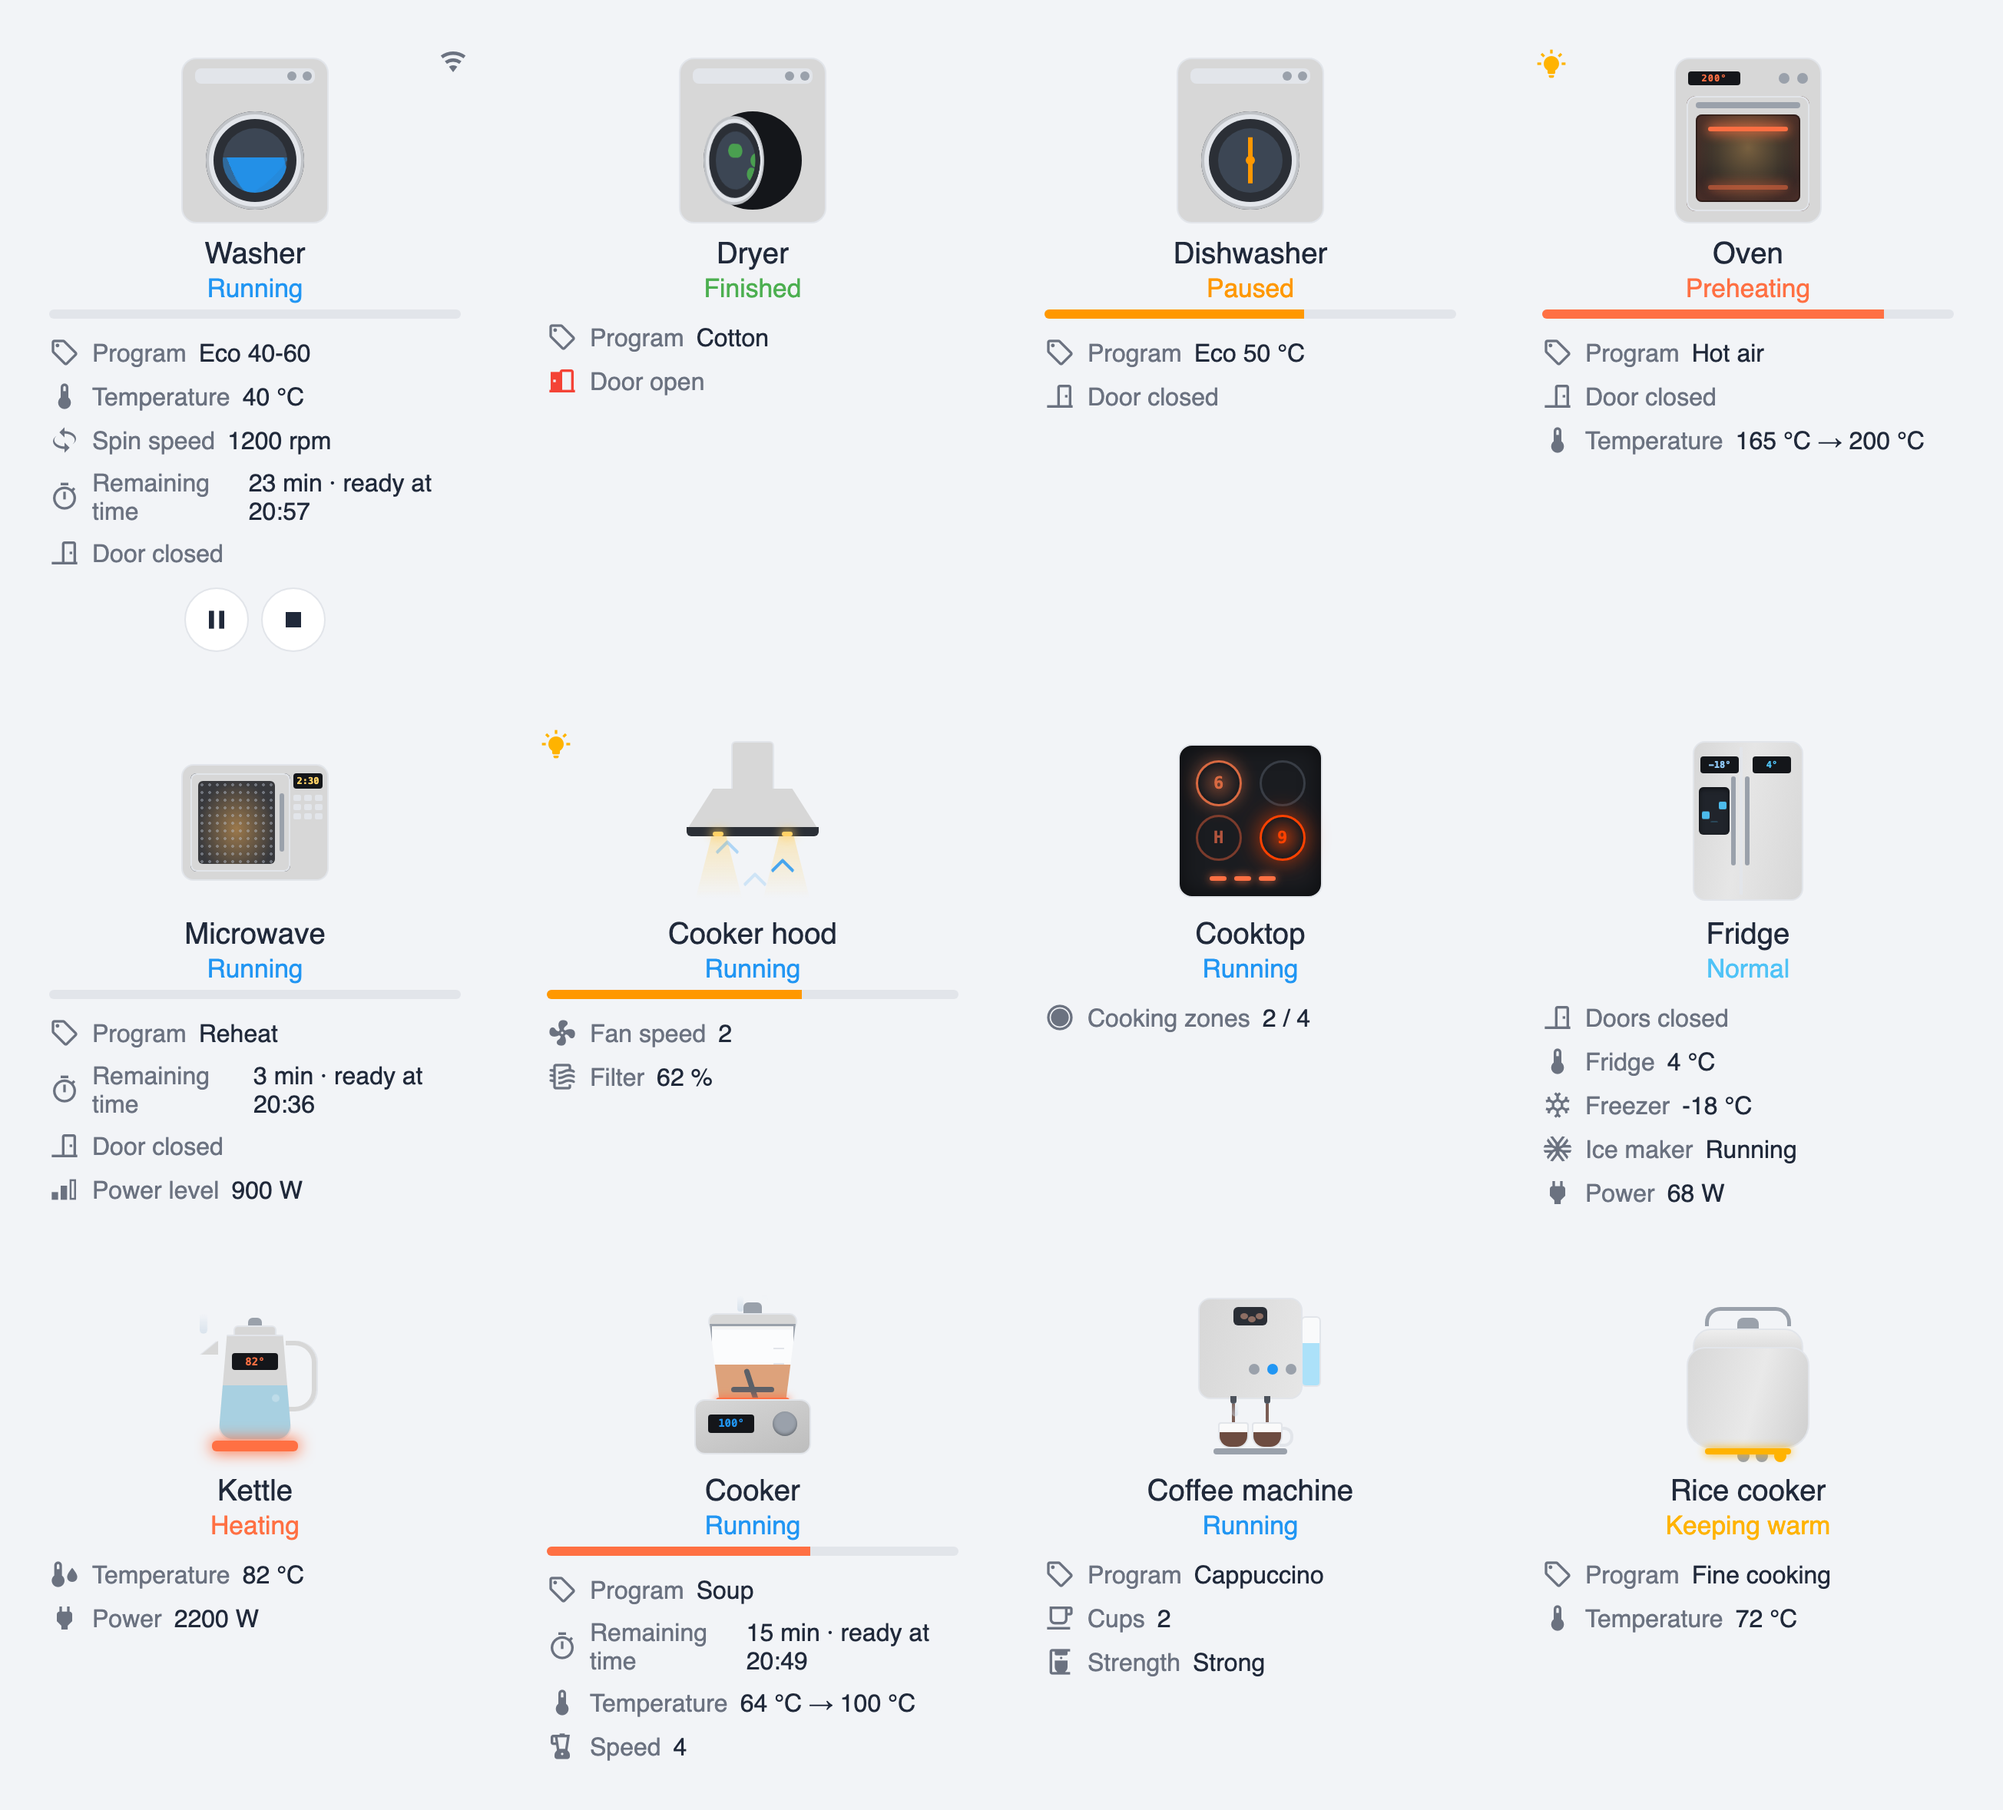
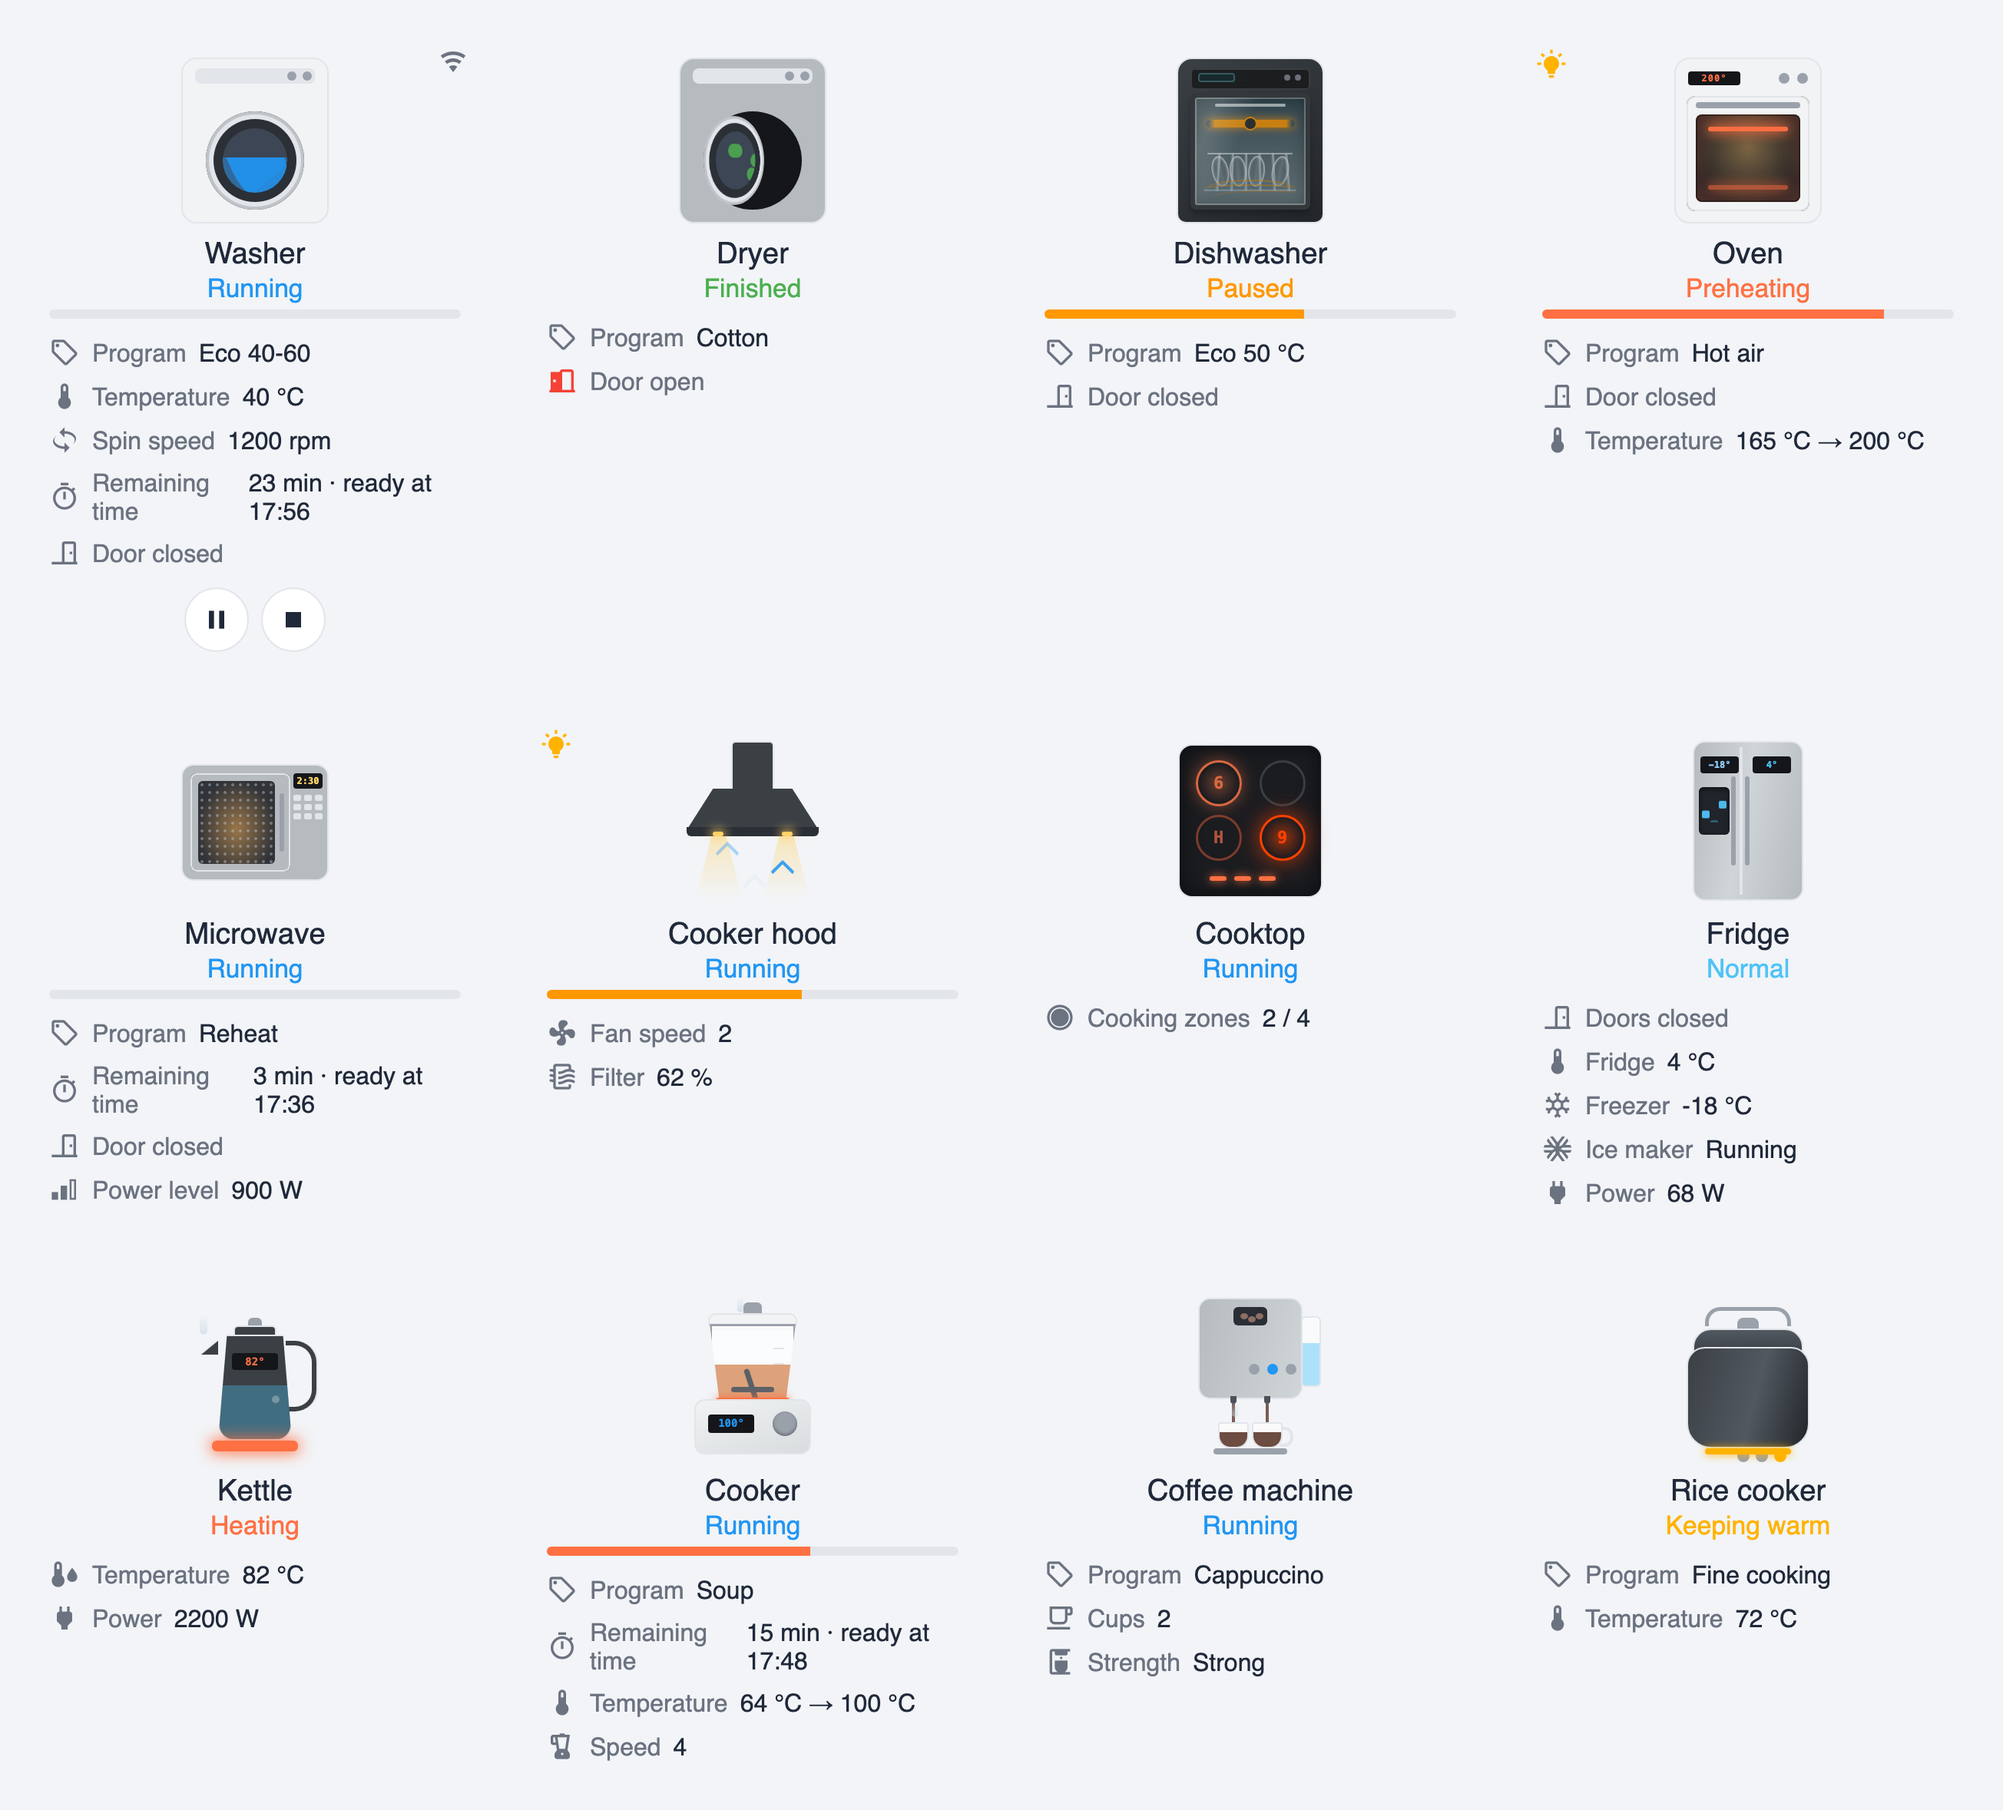
docs: refaire la capture de la galerie avec le nouveau lave-vaisselle (v2.3.2)
La capture principale du README montrait encore l'ancien lave-vaisselle,
c'est-a-dire un corps de lave-linge avec un bras d'aspersion pose dessus.
Elle montre desormais celui de la 2.3.0, avec sa porte carree a charniere
basse, sa vitre claire en pause et sa vaisselle visible.

Les douze appareils de la galerie portent aussi une couleur differente, en
faisant tourner les trois prereglages d'illustration_color arrivés en
2.3.1. C'etait la seule facon de montrer cette option sans ajouter une
image de plus au README.

Les couleurs sont posees dans docs/demo.html plutot que dans la capture,
pour que tools/capture.py reste capable de regenerer l'image a l'identique.
Les deux bandes animees ne changent pas.

400 assertions.

diff --git a/docs/demo.html b/docs/demo.html
@@ -79,6 +79,7 @@ function card(config, entities) {
 // to show what each type looks like with its own data.
 
 const washer = () => card({
+  illustration_color: "white",
   name: L("Washer", "Lave-linge"),
   appliance_type: "washer",
   state_entity: "sensor.washer_state",
@@ -107,6 +108,7 @@ const washer = () => card({
 ]);
 
 const dryer = () => card({
+  illustration_color: "grey",
   name: L("Dryer", "Sèche-linge"),
   appliance_type: "dryer",
   state_entity: "sensor.dryer_state",
@@ -120,6 +122,7 @@ const dryer = () => card({
 ]);
 
 const dishwasher = () => card({
+  illustration_color: "black",
   name: L("Dishwasher", "Lave-vaisselle"),
   appliance_type: "dishwasher",
   state_entity: "sensor.dw_state",
@@ -137,6 +140,7 @@ const dishwasher = () => card({
 // Home Connect calls the oven's programs heating modes, not wash cycles:
 // Cooking.Oven.Program.HeatingMode.HotAir.
 const oven = () => card({
+  illustration_color: "white",
   name: L("Oven", "Four"),
   appliance_type: "oven",
   state_entity: "sensor.oven_state",
@@ -156,6 +160,7 @@ const oven = () => card({
 ]);
 
 const microwave = () => card({
+  illustration_color: "grey",
   name: L("Microwave", "Micro-ondes"),
   appliance_type: "microwave",
   state_entity: "sensor.mw_state",
@@ -173,6 +178,7 @@ const microwave = () => card({
 ]);
 
 const hood = () => card({
+  illustration_color: "black",
   name: L("Cooker hood", "Hotte"),
   appliance_type: "hood",
   state_entity: "sensor.hood_state",
@@ -194,6 +200,7 @@ const hood = () => card({
 ]);
 
 const cooktop = () => card({
+  illustration_color: "white",
   name: L("Cooktop", "Plaque de cuisson"),
   appliance_type: "cooktop",
   state_entity: "sensor.hob_state",
@@ -215,6 +222,7 @@ const cooktop = () => card({
 ]);
 
 const fridge = () => card({
+  illustration_color: "grey",
   name: L("Fridge", "Réfrigérateur"),
   appliance_type: "fridge",
   fridge_layout: "side_by_side",
@@ -234,6 +242,7 @@ const fridge = () => card({
 ]);
 
 const kettle = () => card({
+  illustration_color: "black",
   name: L("Kettle", "Bouilloire"),
   appliance_type: "kettle",
   state_entity: "switch.kettle",
@@ -246,6 +255,7 @@ const kettle = () => card({
 ]);
 
 const cooker = () => card({
+  illustration_color: "white",
   name: L("Cooker", "Robot cuiseur"),
   appliance_type: "cooker",
   state_entity: "sensor.cooker_state",
@@ -267,6 +277,7 @@ const cooker = () => card({
 ]);
 
 const coffee = () => card({
+  illustration_color: "grey",
   name: L("Coffee machine", "Machine à café"),
   appliance_type: "coffee",
   state_entity: "sensor.coffee_state",
@@ -290,6 +301,7 @@ const coffee = () => card({
 ]);
 
 const riceCooker = () => card({
+  illustration_color: "black",
   name: L("Rice cooker", "Cuiseur à riz"),
   appliance_type: "rice_cooker",
   state_entity: "sensor.rice_state",

diff --git a/dist/ha-appliance-card.js b/dist/ha-appliance-card.js
@@ -1,4 +1,4 @@
-const CARD_VERSION = "2.3.1";
+const CARD_VERSION = "2.3.2";
 
 console.info(
   "%c HA-APPLIANCE-CARD %c v" + CARD_VERSION + " ",
